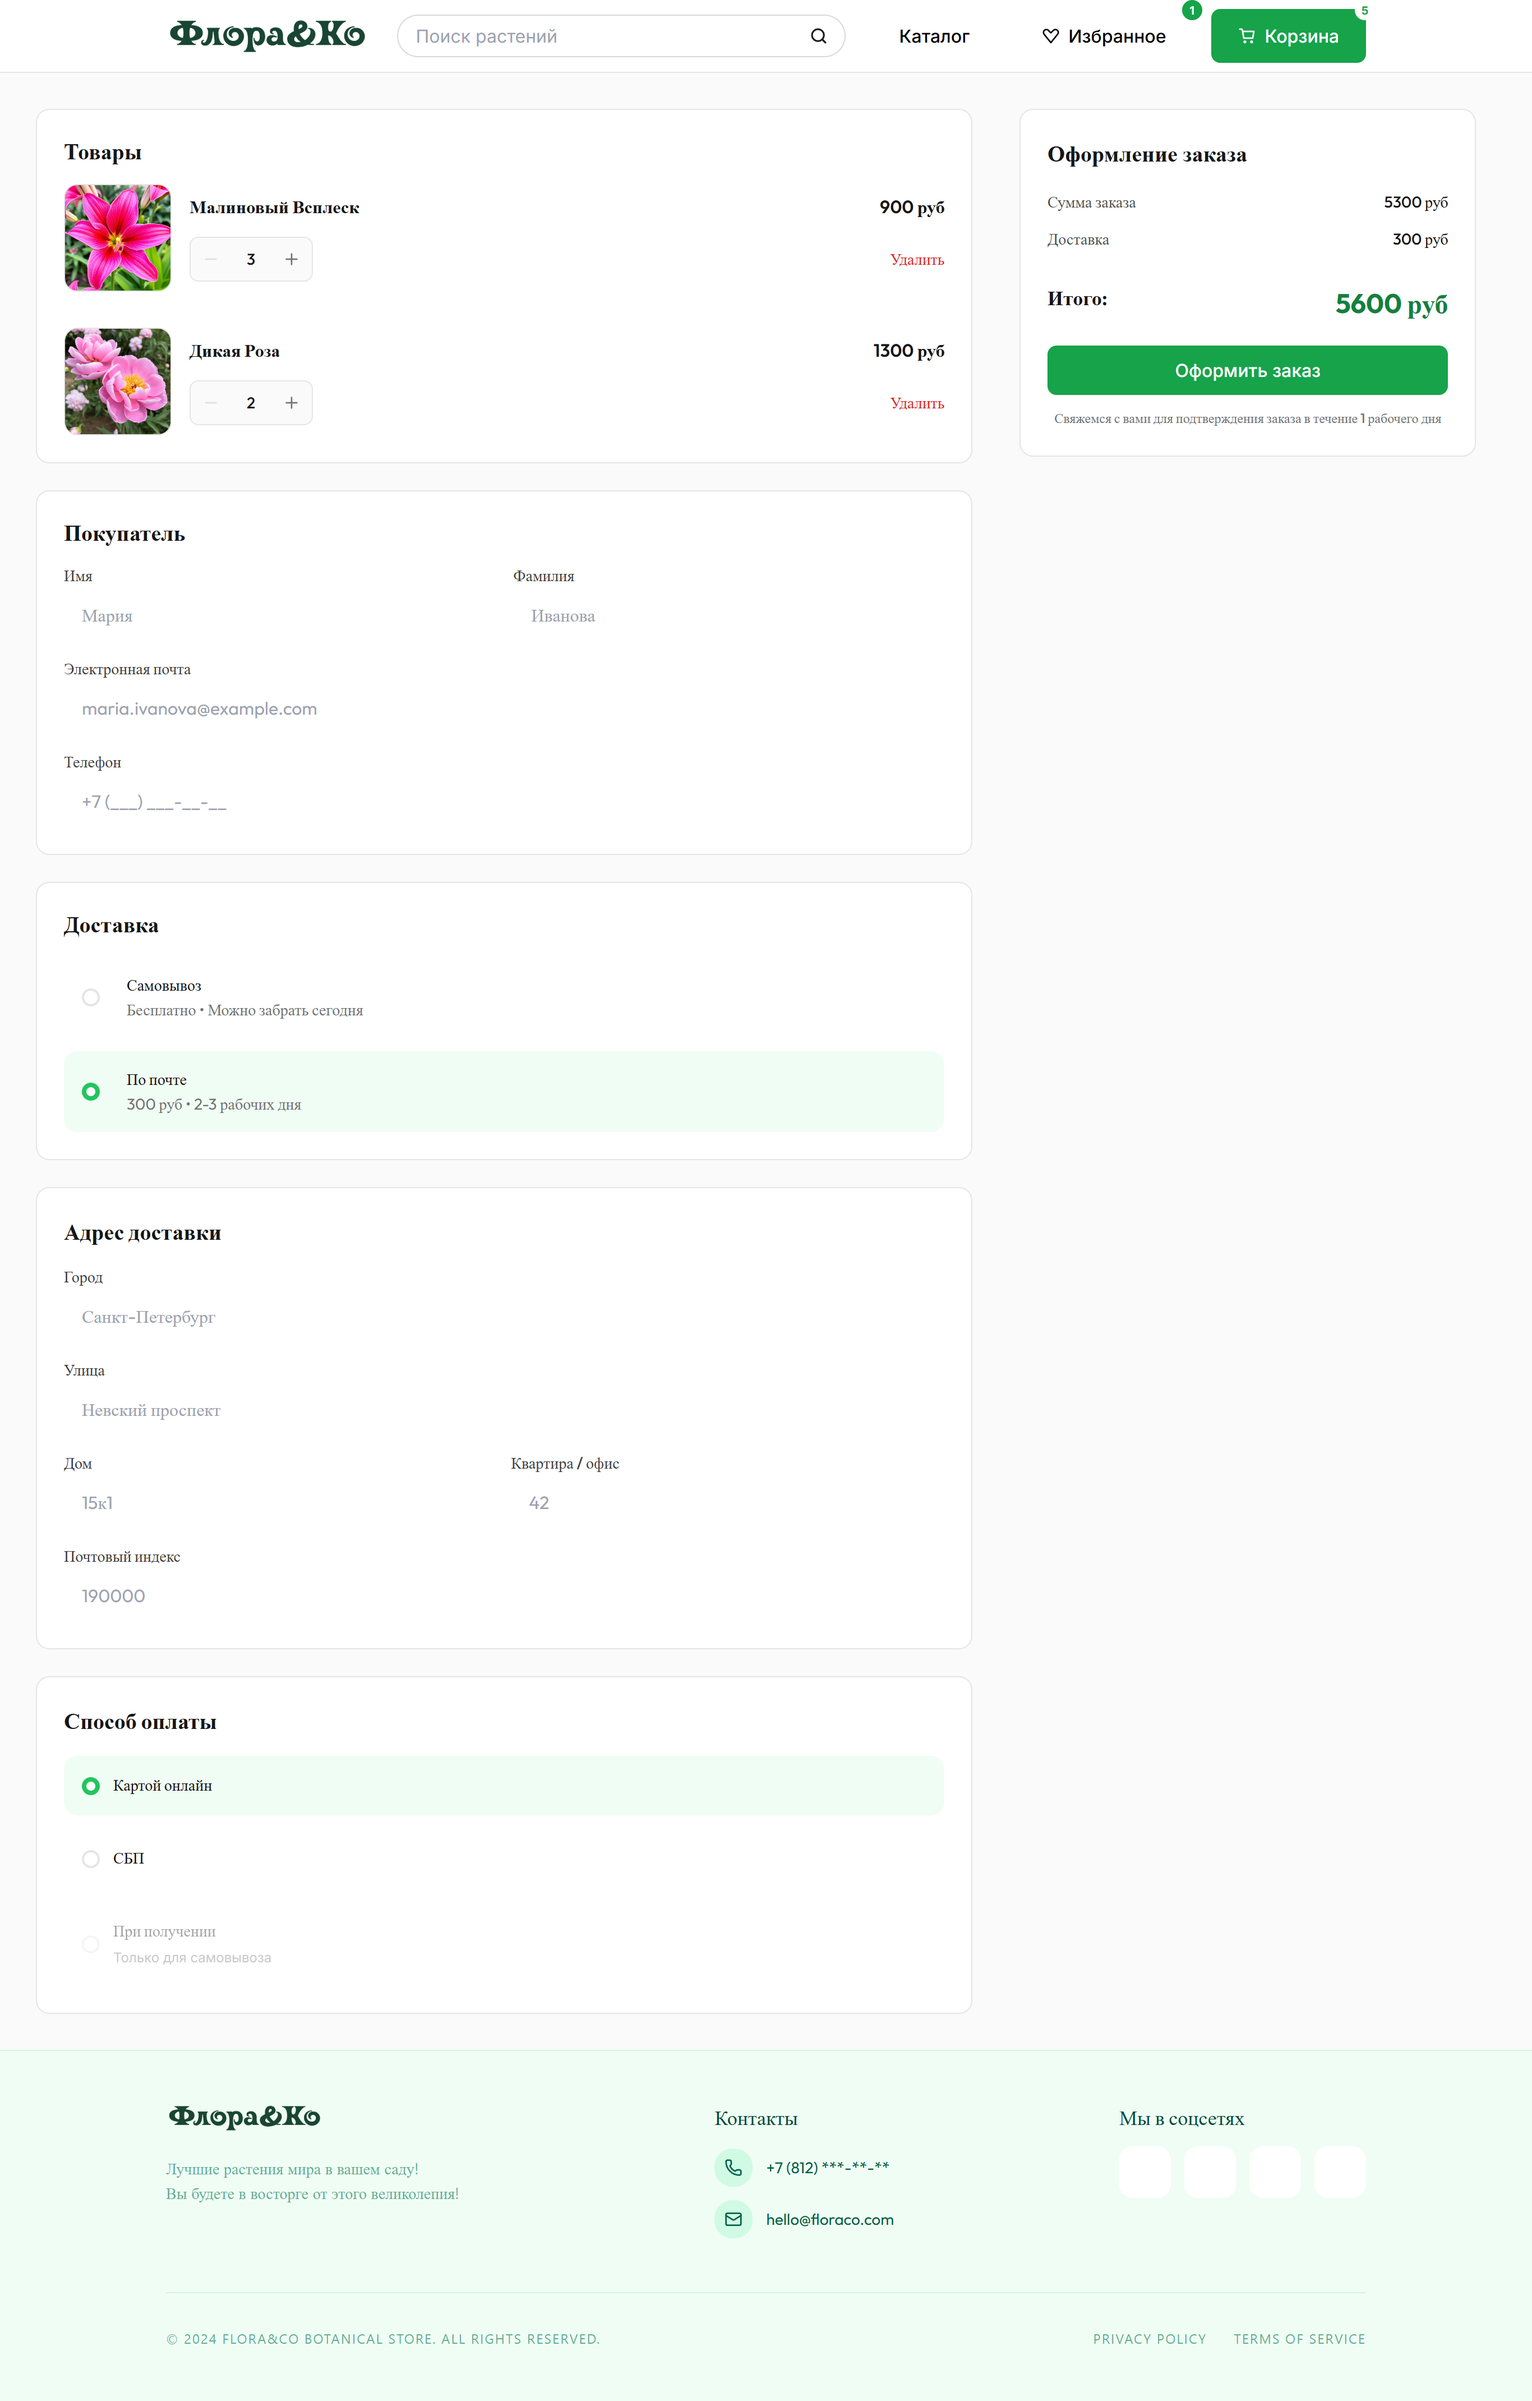
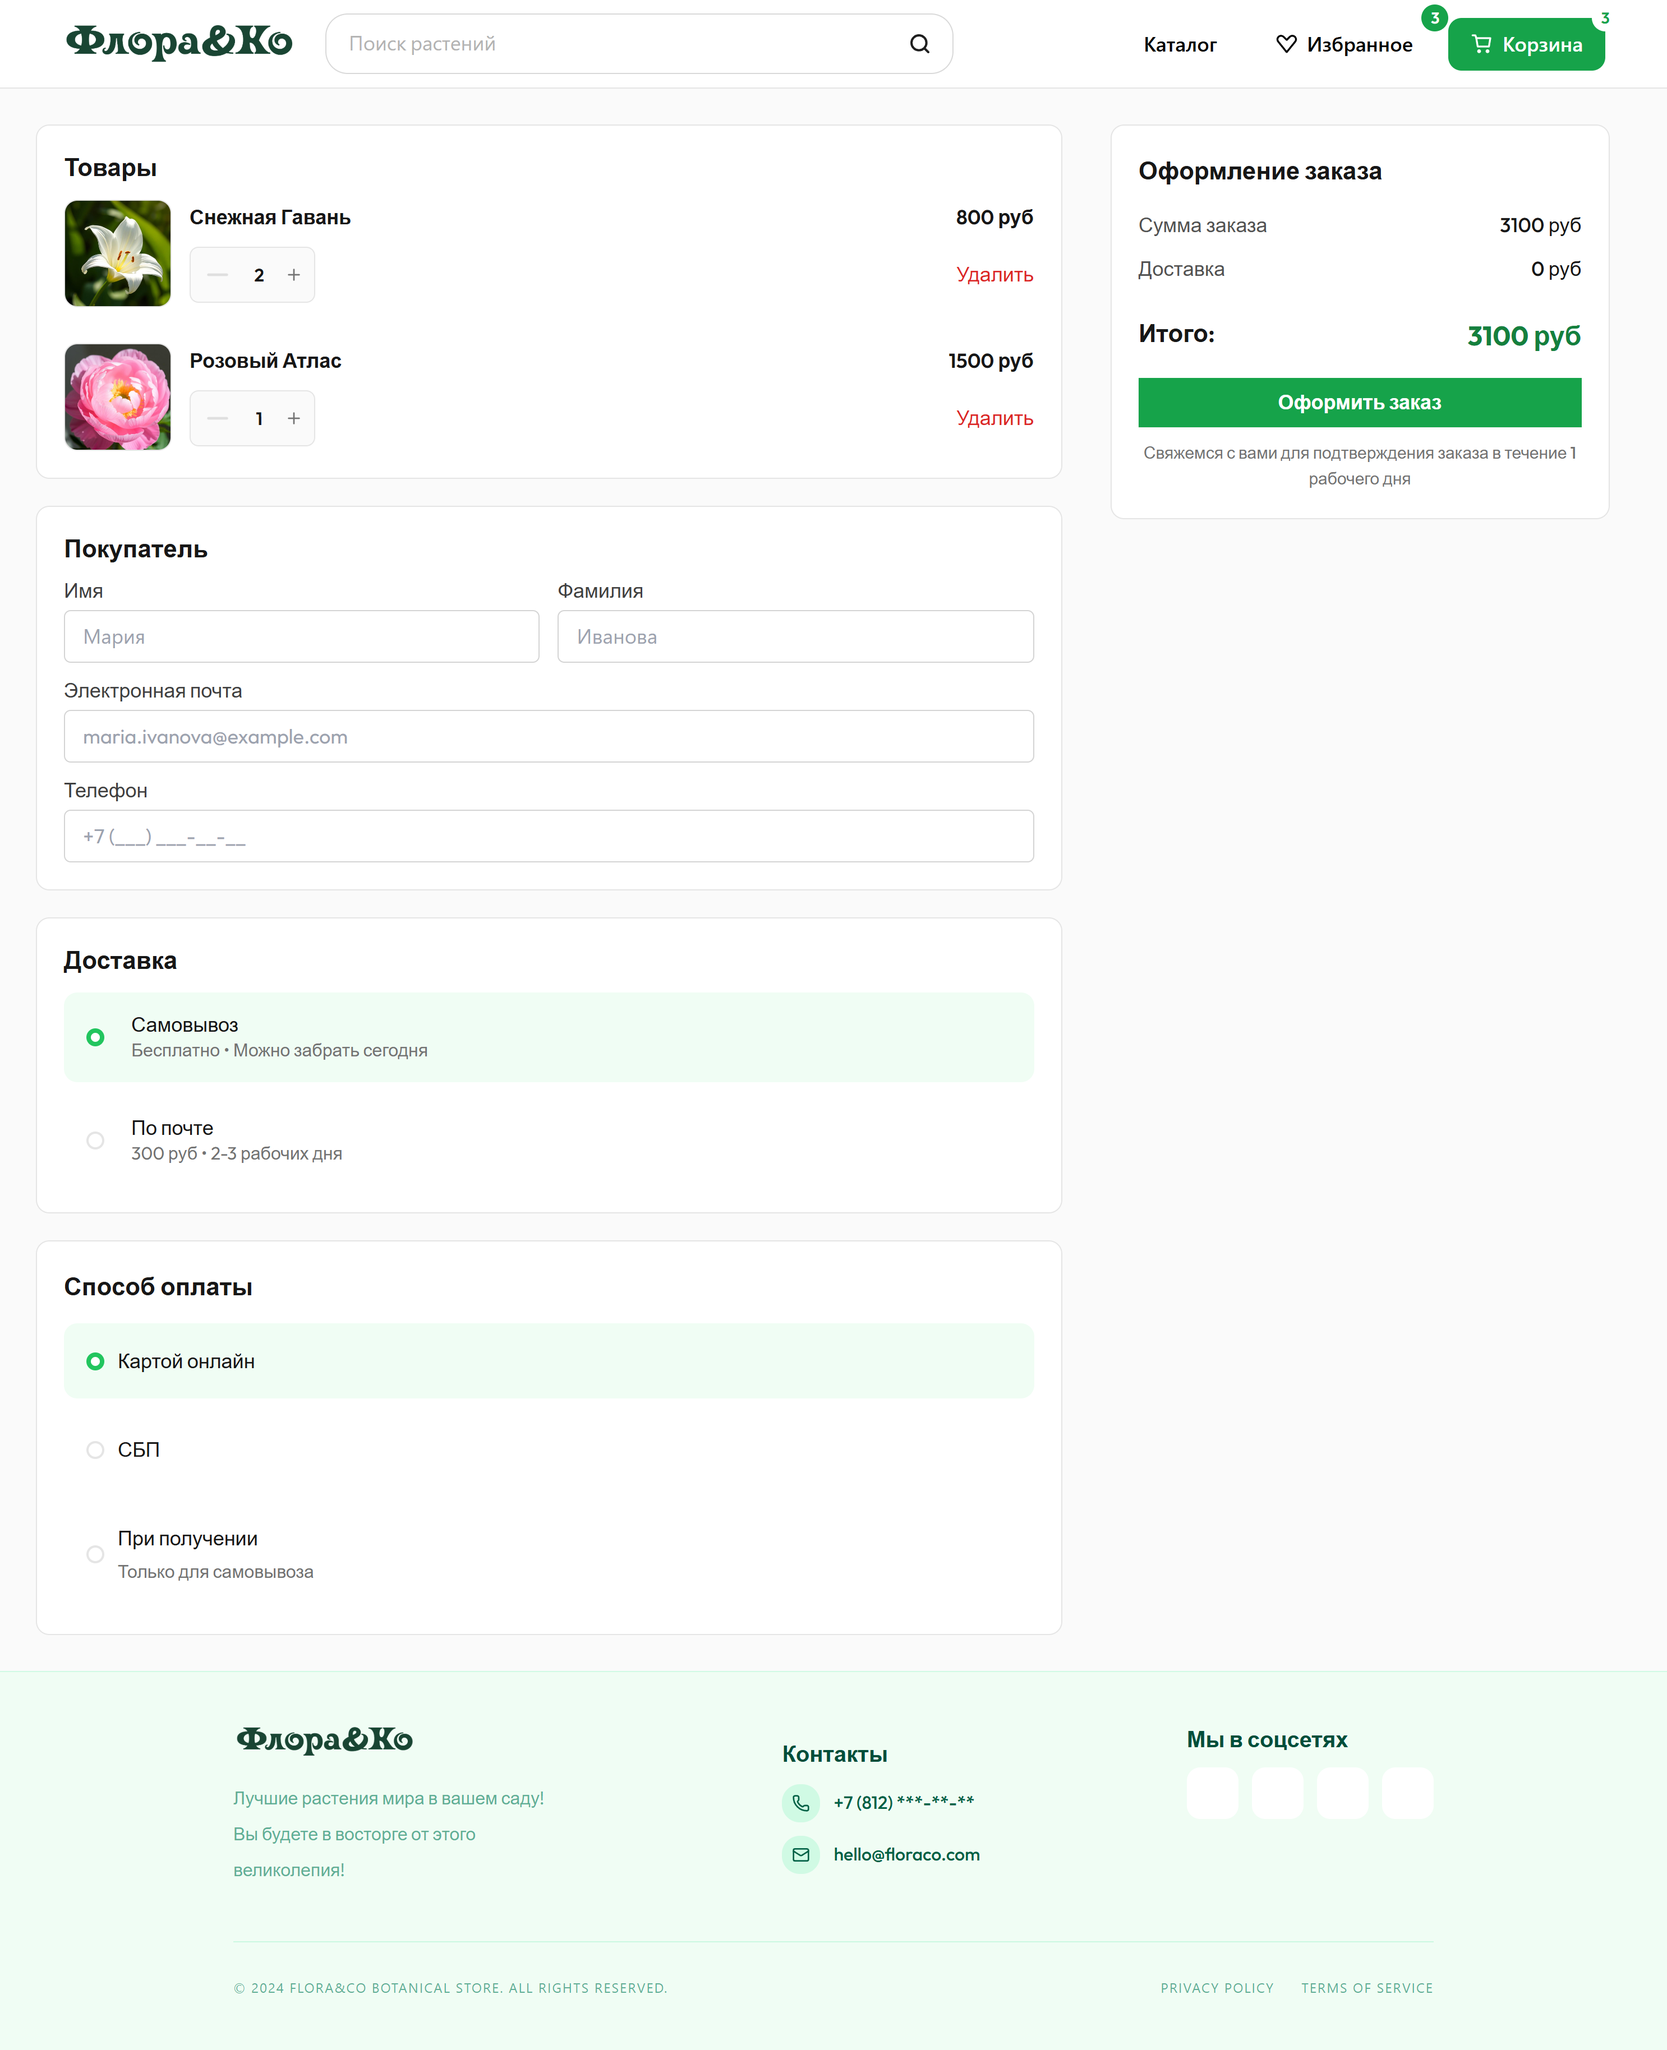
docs: обновление скриншотов и добавление ссылки на демо / docs: update screenshots and add live demo link
- обновлены скриншоты проекта в README
- добавлена ссылка на опубликованную демо-версию приложения

- updated project screenshots in README
- added a link to the deployed live demo

diff --git a/README.md b/README.md
@@ -8,6 +8,10 @@ Flora&Co is a responsive e-commerce application that allows users to browse plan
 
 This project is a complete TypeScript migration of the original JavaScript version of Flora&Co. The application was fully converted to TypeScript with strict typing while preserving all existing functionality and improving maintainability and type safety.
 
+## Live Demo
+
+[View Live Demo](https://flora-co-react-typescript-alevtina-work1.vercel.app)
+
 ## Previous Version
 
 This project is a refactored TypeScript version of the original JavaScript implementation.
